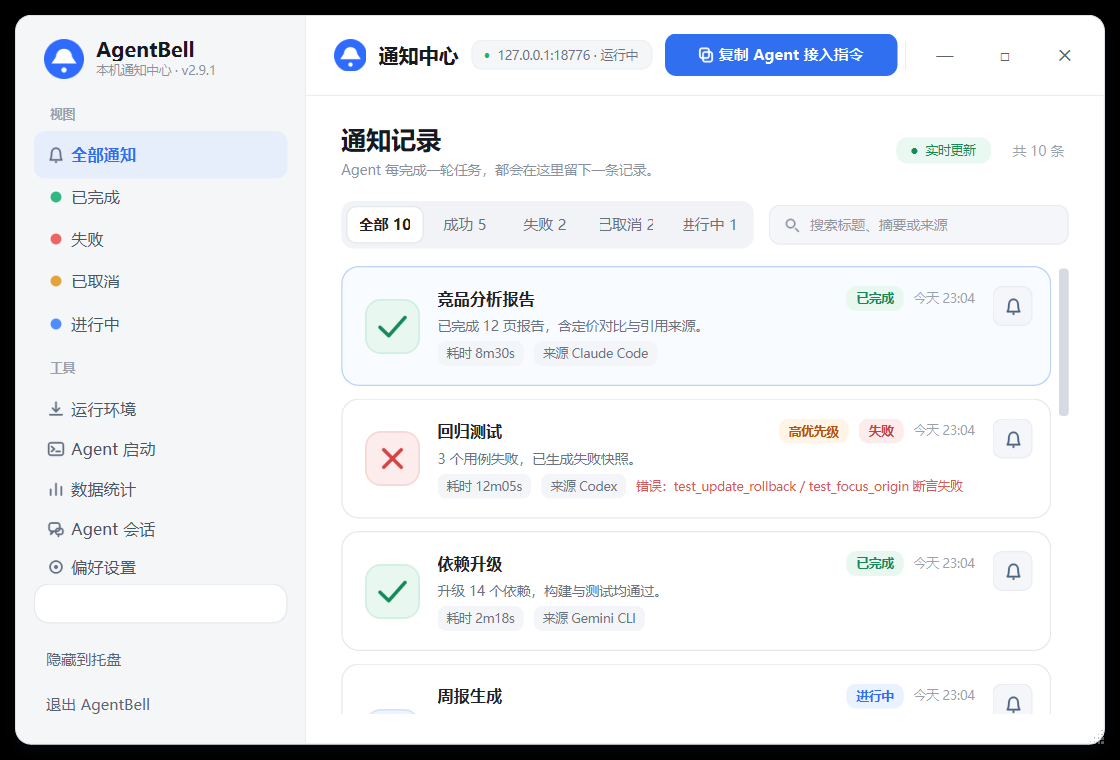
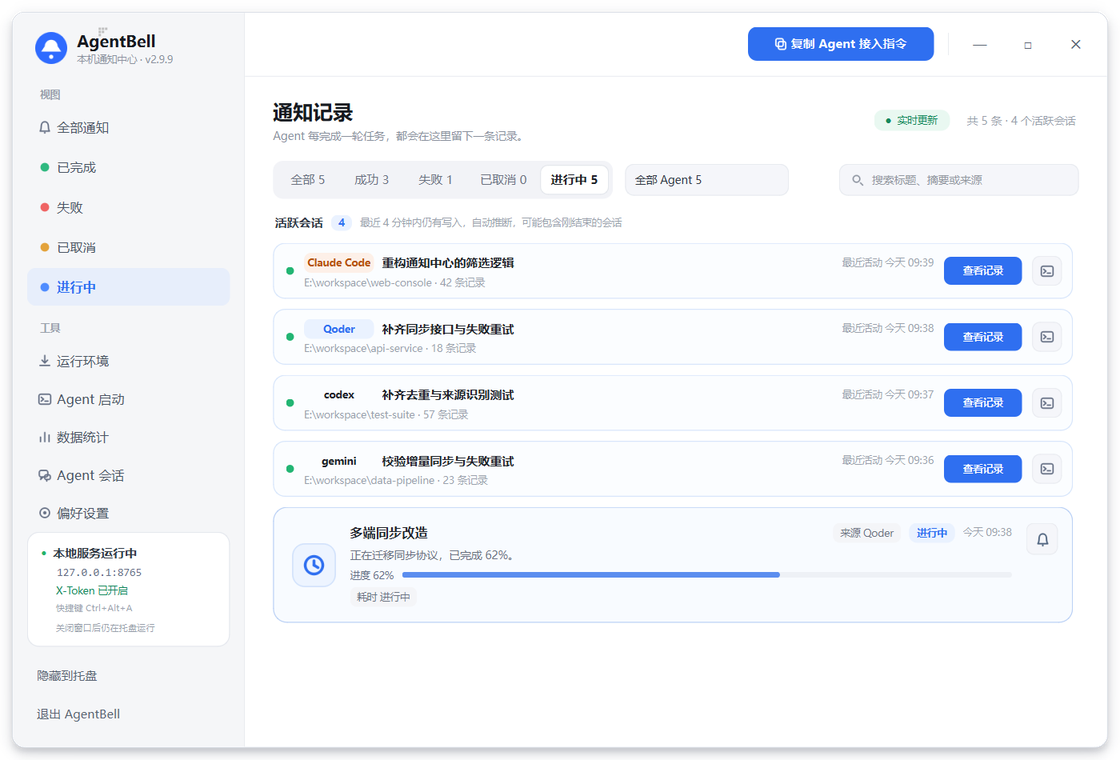
Update site for AgentBell 2.9.9 with live sessions and changelog

diff --git a/index.html b/index.html
@@ -4,16 +4,16 @@
 <meta charset="utf-8">
 <meta name="viewport" content="width=device-width, initial-scale=1">
 <title>AgentBell · 本机通知中心，让 Agent 收工有铃声</title>
-<meta name="description" data-i18n-attr="content:meta.description" content="AgentBell 是一个只做提醒的 Windows 本机通知中心。Claude Code、Codex、Gemini CLI 等 Agent 每轮结束，屏幕角落递上一张置顶卡片；支持历史、统计、回到终端与一键运行环境。">
+<meta name="description" data-i18n-attr="content:meta.description" content="AgentBell 是一个只做提醒的 Windows 本机通知中心。Claude Code、Codex、Gemini CLI 等 Agent 每轮结束，屏幕角落递上一张置顶卡片；支持历史、统计、Agent 来源筛选、进行中活跃会话、回到终端与一键运行环境。">
 <meta name="theme-color" content="#F6F5F1">
 <meta property="og:type" content="website">
 <meta property="og:title" data-i18n-attr="content:meta.title" content="AgentBell · 本机通知中心，让 Agent 收工有铃声">
-<meta property="og:description" data-i18n-attr="content:meta.description" content="只做提醒的 Windows 本机通知中心。Agent 每轮结束，屏幕角落递上一张置顶卡片。">
-<meta property="og:image" content="https://1wu-davy-2.github.io/agentbell-site/assets/screenshots/notification-center.png">
+<meta property="og:description" data-i18n-attr="content:meta.description" content="只做提醒的 Windows 本机通知中心。Agent 每轮结束递上一张置顶卡片，进行中页还会自动汇集最近活跃的 Agent 会话。">
+<meta property="og:image" content="https://1wu-davy-2.github.io/agentbell-site/assets/screenshots/notification-center.png?v=299">
 <meta name="twitter:card" content="summary_large_image">
 <link rel="icon" href="assets/mark.svg" type="image/svg+xml">
 <link rel="apple-touch-icon" href="assets/icon-256.png">
-<link rel="preload" as="image" href="assets/screenshots/notification-center.png">
+<link rel="preload" as="image" href="assets/screenshots/notification-center.png?v=299">
 <link rel="stylesheet" href="assets/site.css">
 <script>
 document.documentElement.classList.add('js');
@@ -39,6 +39,7 @@ try {
       <a href="#why" data-i18n="nav.why">为什么</a>
       <a href="#features" data-i18n="nav.features">能力</a>
       <a href="#screens" data-i18n="nav.screens">界面</a>
+      <a href="#updates" data-i18n="nav.updates">更新</a>
       <a href="#start" data-i18n="nav.start">上手</a>
       <a href="#runtime" data-i18n="nav.runtime">运行环境</a>
       <a href="#faq" data-i18n="nav.faq">问答</a>
@@ -75,7 +76,7 @@ try {
             <span class="arrow">↗</span>
           </a>
         </div>
-        <p class="hero-note reveal delay-4"><span class="ver">v2.9.1</span><span class="dot-sep"></span><span data-i18n="hero.note">免安装单文件 · 约 58 MB · 只监听 127.0.0.1</span></p>
+        <p class="hero-note reveal delay-4"><span class="ver">v2.9.9</span><span class="dot-sep"></span><span data-i18n="hero.note">免安装单文件 · 约 85 MB · 只监听 127.0.0.1</span></p>
       </div>
 
       <div class="hero-stage reveal delay-2" aria-label="AgentBell 通知中心界面预览" data-i18n-aria="a11y.preview">
@@ -87,7 +88,7 @@ try {
             <span class="device-title" data-i18n="hero.device">AgentBell · 通知中心</span>
             <span class="device-port">:8765</span>
           </div>
-          <img class="device-shot" src="assets/screenshots/notification-center.png" width="1120" height="760" alt="AgentBell 通知中心：左侧按状态筛选，右侧通知卡片列表" data-i18n-attr="alt:hero.deviceAlt">
+          <img class="device-shot" src="assets/screenshots/notification-center.png?v=299" width="1120" height="760" alt="AgentBell 通知中心：进行中页自动显示活跃会话，左侧按状态与来源筛选" data-i18n-attr="alt:hero.deviceAlt">
         </div>
         <div class="float-card float-toast">
           <div class="float-head">
@@ -145,7 +146,7 @@ try {
           <span class="principle-no">03</span>
           <div class="principle-body">
             <h3 data-i18n="why.3.title">一眼回到现场</h3>
-            <p data-i18n="why.3.body">通知带上来源进程时，卡片会出现「回到终端」，把宿主窗口切到前台。</p>
+            <p data-i18n="why.3.body">即使通知没带来源，也会按本机连接反查发送进程；卡片出现「回到终端」，把宿主窗口切到前台并落下键盘焦点。</p>
           </div>
           <span class="principle-mark" aria-hidden="true">→</span>
         </article>
@@ -188,7 +189,7 @@ try {
             <svg viewBox="0 0 24 24" width="22" height="22"><path d="M4 20V10M9 20V4M14 20v-7M19 20V7" fill="none" stroke="currentColor" stroke-width="1.7" stroke-linecap="round"/></svg>
           </span>
           <h3 data-i18n="feature.center.title">通知中心</h3>
-          <p data-i18n="feature.center.body">按状态筛选、全文搜索、1000 条历史，附 7 天完成率趋势。</p>
+          <p data-i18n="feature.center.body">状态、搜索与 Agent 来源叠加筛选；近期活跃会话自动汇入「进行中」，1000 条历史附 7 天趋势。</p>
           <div class="mini-bars" aria-hidden="true">
             <i style="--h:38%"></i><i style="--h:62%"></i><i style="--h:50%"></i><i style="--h:78%"></i><i style="--h:64%"></i><i style="--h:88%"></i><i class="on" style="--h:96%"></i>
           </div>
@@ -217,7 +218,7 @@ try {
             <svg viewBox="0 0 24 24" width="22" height="22"><rect x="3" y="5" width="18" height="14" rx="2" fill="none" stroke="currentColor" stroke-width="1.6"/><path d="M3 9h18" stroke="currentColor" stroke-width="1.6"/><path d="M7 6.5h.01M10 6.5h.01" stroke="currentColor" stroke-width="2" stroke-linecap="round"/></svg>
           </span>
           <h3 data-i18n="feature.focus.title">回到终端</h3>
-          <p data-i18n="feature.focus.body">沿父进程链定位宿主终端或编辑器，只聚焦窗口，不执行命令。</p>
+          <p data-i18n="feature.focus.body">自动识别发送进程，沿父进程链定位宿主窗口并确保键盘焦点真正落下，不执行命令。</p>
           <div class="focus-ring" aria-hidden="true"><span>Windows Terminal</span><i>FOCUS</i></div>
         </article>
 
@@ -252,8 +253,8 @@ try {
       <div class="shot-stage">
         <div class="shot-glow" aria-hidden="true"></div>
         <div class="shot-panel is-active" id="panel-center" role="tabpanel" aria-labelledby="tab-center">
-          <div class="shot-frame"><img src="assets/screenshots/notification-center.png" width="1120" height="760" alt="通知中心界面" loading="lazy" data-i18n-attr="alt:screens.alt.center"></div>
-          <div class="shot-caption"><span class="shot-no">01</span><p data-i18n="screens.center.caption">置顶弹出、搜索筛选、稍后提醒与「回到终端」，都在这一页。</p></div>
+          <div class="shot-frame"><img src="assets/screenshots/notification-center.png?v=299" width="1120" height="760" alt="通知中心：进行中页的活跃会话" loading="lazy" data-i18n-attr="alt:screens.alt.center"></div>
+          <div class="shot-caption"><span class="shot-no">01</span><p data-i18n="screens.center.caption">状态、Agent 来源与搜索叠加筛选；活跃会话自动汇入「进行中」，回到终端就在卡片上。</p></div>
         </div>
         <div class="shot-panel" id="panel-stats" role="tabpanel" aria-labelledby="tab-stats" hidden>
           <div class="shot-frame"><img src="assets/screenshots/statistics.png" width="1120" height="760" alt="数据统计界面" loading="lazy" data-i18n-attr="alt:screens.alt.stats"></div>
@@ -276,10 +277,59 @@ try {
     </div>
   </section>
 
+  <section class="section updates" id="updates">
+    <div class="wrap">
+      <div class="section-head split">
+        <div>
+          <p class="label" data-i18n="updates.label">04 / 更新</p>
+          <h2 class="section-title" data-i18n-html="updates.title">最近几次更新，<br>都修在等待上。</h2>
+        </div>
+        <p class="section-lead right" data-i18n="updates.lead">从筛选、来源识别到「进行中」，最近几个版本把最常见的打断补上了。</p>
+      </div>
+      <div class="release-list">
+        <article class="release" data-reveal>
+          <span class="release-ver">v2.9.9</span>
+          <div class="release-body">
+            <h3 data-i18n="updates.299.title">「进行中」自动汇集活跃会话</h3>
+            <p data-i18n="updates.299.body">扫描结果里最近两个周期内仍有写入的会话，会以只读卡片出现在「进行中」，标注 Agent、项目、最近活动与记录数；随来源筛选与搜索收窄，不计入「全部」。</p>
+          </div>
+          <span class="release-flag" data-i18n="updates.latest">最新</span>
+        </article>
+        <article class="release" data-reveal>
+          <span class="release-ver">v2.9.8</span>
+          <div class="release-body">
+            <h3 data-i18n="updates.298.title">Agent 来源筛选与更新预填</h3>
+            <p data-i18n="updates.298.body">来源 Agent 移到标题行，通知中心新增来源下拉，可与状态、搜索叠加；安装包预填更新仓库，启动约 9 秒自动检查新版本。</p>
+          </div>
+        </article>
+        <article class="release" data-reveal>
+          <span class="release-ver">v2.9.7</span>
+          <div class="release-body">
+            <h3 data-i18n="updates.297.title">「回到终端」真正拿到键盘焦点</h3>
+            <p data-i18n="updates.297.body">Windows 前台锁拒绝普通置前时，依次尝试附加输入队列与 SwitchToThisWindow，仍失败才提示；只在用户点击后触发。</p>
+          </div>
+        </article>
+        <article class="release" data-reveal>
+          <span class="release-ver">v2.9.5–2.9.6</span>
+          <div class="release-body">
+            <h3 data-i18n="updates.295.title">筛选不再假死，来源自动识别</h3>
+            <p data-i18n="updates.295.body">切换状态筛选不再卡住约 10 秒；通知没填 origin 或 source 时，按本机连接反查发送进程并补出来源。</p>
+          </div>
+        </article>
+      </div>
+      <div class="release-more">
+        <a class="btn btn-ghost" href="https://github.com/1wu-davy-2/AgentBell/releases" target="_blank" rel="noopener">
+          <span data-i18n="updates.more">查看全部发布记录</span>
+          <span class="arrow">↗</span>
+        </a>
+      </div>
+    </div>
+  </section>
+
   <section class="section start" id="start">
     <div class="wrap start-grid">
       <div class="start-copy">
-        <p class="label" data-i18n="start.label">04 / 上手</p>
+        <p class="label" data-i18n="start.label">05 / 上手</p>
         <h2 class="section-title" data-i18n-html="start.title">三步，<br>让铃声接管等待。</h2>
         <ol class="steps">
           <li data-reveal>
@@ -321,7 +371,7 @@ try {
   <section class="section runtime" id="runtime">
     <div class="wrap runtime-grid">
       <div class="runtime-copy">
-        <p class="label" data-i18n="runtime.label">05 / 运行环境</p>
+        <p class="label" data-i18n="runtime.label">06 / 运行环境</p>
         <h2 class="section-title" data-i18n-html="runtime.title">Node 这件事，<br>也替你做完了。</h2>
         <p class="section-lead" data-i18n="runtime.lead">普通用户不用自己准备 Node。在「运行环境」页点一次，官方 Node LTS 与 7 个 Agent CLI 就装进安装目录的 runtime/。</p>
         <ul class="runtime-list">
@@ -347,7 +397,7 @@ try {
 
   <section class="section privacy" id="privacy">
     <div class="wrap">
-      <p class="label" data-i18n="privacy.label">06 / 边界</p>
+      <p class="label" data-i18n="privacy.label">07 / 边界</p>
       <h2 class="section-title privacy-title" data-i18n-html="privacy.title">通知，<br>只在 127.0.0.1 之间发生。</h2>
       <div class="privacy-grid">
         <article data-reveal><span class="privacy-num">0</span><h3 data-i18n="privacy.0.title">云端依赖</h3><p data-i18n="privacy.0.body">没有账号、没有遥测、没有统计上报。</p></article>
@@ -360,7 +410,7 @@ try {
   <section class="section faq" id="faq">
     <div class="wrap faq-grid">
       <div class="faq-head">
-        <p class="label" data-i18n="faq.label">07 / 问答</p>
+        <p class="label" data-i18n="faq.label">08 / 问答</p>
         <h2 class="section-title" data-i18n="faq.title">也许你还想知道。</h2>
       </div>
       <div class="faq-list">
@@ -382,7 +432,11 @@ try {
         </details>
         <details data-reveal>
           <summary><span data-i18n="faq.q5">怎么更新？</span><i aria-hidden="true"></i></summary>
-          <p data-i18n="faq.a5">在偏好设置里填写 GitHub 仓库并开启启动检查；更新包只从 GitHub HTTPS 下载，校验大小与 SHA-256，退出时替换、备份并重启。源码模式只下载安装包，不替换正在运行的 Python 进程。</p>
+          <p data-i18n="faq.a5">安装包已预填更新仓库 1wu-davy-2/AgentBell，启动约 9 秒自动检查，托盘与设置页也可手动检查；更新包只从 GitHub HTTPS 下载，校验大小与 SHA-256，退出时替换、备份并重启。源码模式只下载安装包，不替换正在运行的 Python 进程。</p>
+        </details>
+        <details data-reveal>
+          <summary><span data-i18n="faq.q7">「进行中」里的活跃会话是什么？</span><i aria-hidden="true"></i></summary>
+          <p data-i18n="faq.a7">会话扫描发现最近两个扫描周期（默认 240 秒）内仍有写入的会话，就会以只读卡片出现在「进行中」，方便知道哪些 Agent 还在跑。它不写入历史、不计入「全部」，扫描关闭时自动隐藏。</p>
         </details>
         <details data-reveal>
           <summary><span data-i18n="faq.q6">为什么没有网页版？</span><i aria-hidden="true"></i></summary>
@@ -396,7 +450,7 @@ try {
     <div class="cta-beacon" aria-hidden="true"><span></span><span></span><span></span></div>
     <div class="wrap cta-inner">
       <h2 data-i18n-html="cta.title">下一次 Agent 收工，<br><em>让铃声替你看。</em></h2>
-      <p class="cta-sub" data-i18n="cta.sub">Windows 10 / 11 · v2.9.1 · MIT License</p>
+      <p class="cta-sub" data-i18n="cta.sub">Windows 10 / 11 · v2.9.9 · MIT License</p>
       <div class="hero-cta">
         <a class="btn btn-amber btn-lg" href="https://github.com/1wu-davy-2/AgentBell/releases/latest">
           <svg viewBox="0 0 20 20" width="17" height="17" aria-hidden="true"><path fill="currentColor" d="M10 2v9.2L6.4 7.6 5 9l5 5 5-5-1.4-1.4L10 11.2V2H10Z"/><path fill="currentColor" d="M3 15h14v2H3z"/></svg>

diff --git a/assets/site.js b/assets/site.js
@@ -3,7 +3,7 @@
 
   var EN = {
     "meta.title": "AgentBell · Local notifications for Claude Code, Codex & Gemini CLI",
-    "meta.description": "AgentBell is a Windows notification center that does one thing: when Claude Code, Codex, Gemini CLI or any agent finishes a turn, a pinned card lands in the corner of your screen. History, stats, back-to-terminal, and a one-click runtime.",
+    "meta.description": "AgentBell is a Windows notification center that does one thing: when Claude Code, Codex, Gemini CLI or any agent finishes a turn, a pinned card lands in the corner of your screen. History, stats, agent-source filters, live sessions in Running, back-to-terminal, and a one-click runtime.",
 
     "a11y.skip": "Skip to content",
     "a11y.home": "AgentBell home",
@@ -16,6 +16,7 @@
     "nav.why": "Why",
     "nav.features": "Features",
     "nav.screens": "Screens",
+    "nav.updates": "Updates",
     "nav.start": "Start",
     "nav.runtime": "Runtime",
     "nav.faq": "FAQ",
@@ -26,9 +27,9 @@
     "hero.lead": "A local notification center that does exactly one thing. When Claude Code, Codex, or Gemini CLI finishes a turn, a pinned card appears in the corner of your screen — no tab-switching, no missed last message.",
     "hero.cta": "Download for Windows",
     "hero.gh": "View on GitHub",
-    "hero.note": "Single portable exe · ~58 MB · listens on 127.0.0.1 only",
+    "hero.note": "Single portable exe · ~85 MB · listens on 127.0.0.1 only",
     "hero.device": "AgentBell · Notification Center",
-    "hero.deviceAlt": "AgentBell notification center: status filters on the left, notification cards on the right",
+    "hero.deviceAlt": "AgentBell notification center: live sessions under Running, with status and source filters on the left",
     "hero.float.agent": "Claude Code",
     "hero.float.status": "Done",
     "hero.float.title": "Weekly report ready",
@@ -43,7 +44,7 @@
     "why.2.title": "Sounds off only when it should",
     "why.2.body": "Quiet hours, fullscreen and meeting suppression, lock-screen retention, success-to-center-only — the bell knows when to hold back.",
     "why.3.title": "Back to the scene in one click",
-    "why.3.body": "When a notification carries its source process, the card offers “Back to terminal” and brings the host window forward.",
+    "why.3.body": "Even without a source hint, AgentBell traces the local connection back to the sender process; the card offers “Back to terminal” and brings the host window forward with keyboard focus.",
 
     "features.label": "02 / FEATURES",
     "features.title": "Small tool,<br>nothing missing.",
@@ -53,14 +54,14 @@
     "feature.toast.sample": "Login page refactor done",
     "feature.toast.back": "Back to terminal →",
     "feature.center.title": "Notification center",
-    "feature.center.body": "Filter by status, full-text search, 1,000-item history, plus a 7-day completion trend.",
+    "feature.center.body": "Stack status, search, and agent-source filters; recently active sessions flow into Running automatically. 1,000-item history with a 7-day trend.",
     "feature.launch.title": "Agent launcher",
     "feature.launch.body": "Detects and launches 11 agents, with chat/ beside the install as the default workspace.",
     "feature.launch.sample": "\"Fix the login flow\"",
     "feature.runtime.title": "Portable runtime",
     "feature.runtime.body": "One click installs Node LTS and 7 official agent CLIs — no system PATH changes.",
     "feature.focus.title": "Back to terminal",
-    "feature.focus.body": "Walks the parent process chain to the host terminal or editor, focuses the window, runs nothing.",
+    "feature.focus.body": "Auto-detects the sender process, walks the parent chain to the host window, and makes sure keyboard focus really lands — runs nothing.",
     "feature.local.title": "Local first",
     "feature.local.body": "HTTP bound to 127.0.0.1 only, history in local SQLite. No account, no telemetry.",
 
@@ -75,19 +76,33 @@
     "screens.tab.launcher": "Launcher",
     "screens.tab.runtime": "Runtime",
     "screens.tab.settings": "Settings",
-    "screens.center.caption": "Pinned toasts, search and filters, snooze, and “Back to terminal” — all on one page.",
+    "screens.center.caption": "Status, agent-source, and search filters stack; active sessions flow into Running, with “Back to terminal” right on the card.",
     "screens.stats.caption": "Completion rate, average duration, and a 7-day trend, computed from local history.",
     "screens.launcher.caption": "Detection, project selection, and one-click launch for 11 agents.",
     "screens.runtime.caption": "Node, 7 CLIs, component status — install or uninstall from a single page.",
     "screens.settings.caption": "Appearance, interruption policy, self-update, rules, and external channels.",
     "screens.hint": "Screenshots use the isolated debug port 18776; the default is 127.0.0.1:8765.",
-    "screens.alt.center": "Notification center",
+    "screens.alt.center": "Notification center with live sessions under Running",
     "screens.alt.stats": "Statistics",
     "screens.alt.launcher": "Agent launcher",
     "screens.alt.runtime": "Runtime",
     "screens.alt.settings": "Settings",
 
-    "start.label": "04 / START",
+    "updates.label": "04 / UPDATES",
+    "updates.title": "Recent fixes,<br>all about the wait.",
+    "updates.lead": "From filters and source detection to Running, the last few releases removed the most common interruptions.",
+    "updates.299.title": "Live sessions in Running",
+    "updates.299.body": "Sessions written within the last two scan cycles appear as read-only cards under Running, with agent, project, last activity, and record count. They follow source filters and search, and never count toward All.",
+    "updates.298.title": "Agent-source filter and update prefill",
+    "updates.298.body": "Source moved to the title row, and a new source dropdown stacks with status and search. The installer now prefills the update repo and checks about 9 seconds after launch.",
+    "updates.297.title": "“Back to terminal” now takes keyboard focus",
+    "updates.297.body": "When Windows foreground lock refuses a plain raise, AgentBell tries attaching input queues and SwitchToThisWindow before falling back to a notice — only after you click.",
+    "updates.295.title": "No more filter freeze; automatic source detection",
+    "updates.295.body": "Switching status filters no longer hangs for about 10 seconds. When origin or source is missing, AgentBell traces the local connection to the sender process and fills it in.",
+    "updates.latest": "Latest",
+    "updates.more": "All releases",
+
+    "start.label": "05 / START",
     "start.title": "Three steps,<br>and the bell takes over the wait.",
     "start.step1.title": "Download and double-click",
     "start.step1.body": "Drop AgentBell.exe into any writable folder and run it. If SmartScreen appears, choose “More info → Run anyway”.",
@@ -101,7 +116,7 @@
     "start.terminal.note": "Agents can also send origin.pid and friends to get the back-to-terminal button.",
     "start.copied": "Copied",
 
-    "runtime.label": "05 / RUNTIME",
+    "runtime.label": "06 / RUNTIME",
     "runtime.title": "Node included,<br>so you don't have to.",
     "runtime.lead": "No Node setup required. On the Runtime page, one click installs official Node LTS and 7 agent CLIs into runtime/ beside the app.",
     "runtime.node": "Official LTS portable build · SHASUMS256 verified",
@@ -115,7 +130,7 @@
     "runtime.tree.npmrc": "isolated npm config",
     "runtime.tree.tools": "versions and checksums",
 
-    "privacy.label": "06 / BOUNDARIES",
+    "privacy.label": "07 / BOUNDARIES",
     "privacy.title": "Notifications happen<br>only over 127.0.0.1.",
     "privacy.0.title": "Cloud dependencies",
     "privacy.0.body": "No account, no telemetry, no reporting.",
@@ -124,7 +139,7 @@
     "privacy.2.title": "Local history",
     "privacy.2.body": "Notifications and stats stay on this machine, 1,000 items by default, clearable anytime.",
 
-    "faq.label": "07 / FAQ",
+    "faq.label": "08 / FAQ",
     "faq.title": "You might be wondering.",
     "faq.q1": "Which agents are supported?",
     "faq.a1": "Detection and launching cover Claude Code, Claude Desktop, Codex, Gemini CLI, Grok Build, OpenCode, OpenClaw, Hermes, Pi, MiniMax Code, and Antigravity. The runtime only installs 7 of them — the official npm CLIs.",
@@ -135,12 +150,14 @@
     "faq.q4": "macOS / Linux support?",
     "faq.a4": "Toasts, the notification center, and the HTTP service run from source. The tray, global hotkeys, fullscreen/meeting detection, back-to-terminal, and portable Node are Windows-only. The runtime currently supports Windows only.",
     "faq.q5": "How do updates work?",
-    "faq.a5": "Set the GitHub repo in preferences and enable check-on-start. Updates download over GitHub HTTPS only, verify size and SHA-256, then replace on exit, back up, and restart. In source mode it downloads the installer but never replaces the running Python process.",
+    "faq.a5": "The installer already points at 1wu-davy-2/AgentBell and checks about 9 seconds after launch; the tray and preferences can check manually. Updates download over GitHub HTTPS only, verify size and SHA-256, then replace on exit, back up, and restart. In source mode it downloads the installer but never replaces the running Python process.",
+    "faq.q7": "What are the live sessions under Running?",
+    "faq.a7": "If a scanned session was written to within the last two scan cycles (240 seconds by default), it appears as a read-only card under Running so you can see which agents are still working. It is not written to history, never counts toward All, and hides when scanning is off.",
     "faq.q6": "Why no web version?",
     "faq.a6": "AgentBell is deliberately a native PySide6 window: closer to the desktop, less intrusive, and no browser tab to keep around.",
 
     "cta.title": "Next time your agent clocks out,<br><em>let the bell look.</em>",
-    "cta.sub": "Windows 10 / 11 · v2.9.1 · MIT License",
+    "cta.sub": "Windows 10 / 11 · v2.9.9 · MIT License",
     "cta.download": "Download for Windows",
     "cta.gh": "View on GitHub",
 

diff --git a/assets/site.css b/assets/site.css
@@ -651,6 +651,36 @@ html[lang="en"] .hero h1 { font-size: clamp(44px, 4.7vw, 66px); letter-spacing: 
 .shot-caption p { font-size: 13px; color: var(--muted); }
 .shot-hint { margin-top: 16px; text-align: right; font-family: var(--mono); font-size: 9.5px; color: var(--dim); }
 
+/* ---------- updates ---------- */
+.release-list { border-top: 1px solid var(--line); }
+.release {
+  display: grid;
+  grid-template-columns: 112px minmax(0, 1fr) auto;
+  grid-template-areas: "ver body flag";
+  gap: 26px;
+  align-items: start;
+  padding: 28px 22px;
+  border-bottom: 1px solid var(--line);
+  transition: background 0.3s ease;
+}
+.release:hover { background: linear-gradient(90deg, rgba(var(--accent-rgb), 0.05), transparent 65%); }
+.release-ver { grid-area: ver; font-family: var(--mono); font-size: 10px; letter-spacing: 0.13em; color: var(--amber); padding-top: 5px; white-space: nowrap; }
+.release-body { grid-area: body; }
+.release-body h3 { font-size: 18px; font-weight: 600; letter-spacing: 0.01em; }
+.release-body p { margin-top: 8px; max-width: 720px; font-size: 13.5px; line-height: 1.9; color: var(--muted); }
+.release-flag {
+  grid-area: flag;
+  font-family: var(--mono);
+  font-size: 8.5px;
+  letter-spacing: 0.14em;
+  color: var(--amber);
+  border: 1px solid rgba(var(--accent-rgb), 0.32);
+  border-radius: 999px;
+  padding: 3px 9px;
+  white-space: nowrap;
+}
+.release-more { margin-top: 28px; display: flex; justify-content: flex-end; }
+
 /* ---------- start ---------- */
 .start-grid { display: grid; grid-template-columns: 1fr 1fr; gap: 64px; align-items: start; }
 .steps { list-style: none; margin-top: 44px; padding: 0; border-top: 1px solid var(--line); }
@@ -1005,6 +1035,15 @@ html[data-theme="light"] .toast-copied { box-shadow: 0 16px 38px rgba(20, 20, 15
   .section-head { margin-bottom: 42px; }
   .principle { grid-template-columns: 48px 1fr; gap: 16px; padding: 26px 4px; }
   .principle-mark { display: none; }
+  .release {
+    grid-template-columns: 1fr auto;
+    grid-template-areas: "ver flag" "body body";
+    gap: 10px 14px;
+    padding: 26px 4px;
+  }
+  .release-ver { padding-top: 0; }
+  .release-flag { align-self: center; }
+  .release-more { justify-content: flex-start; }
   .card-a, .card-b, .card-c, .card-d, .card-e, .card-f { grid-column: span 6; }
   .card-a { min-height: 380px; }
   .tab-list { width: 100%; overflow-x: auto; border-radius: 14px; scrollbar-width: none; }
